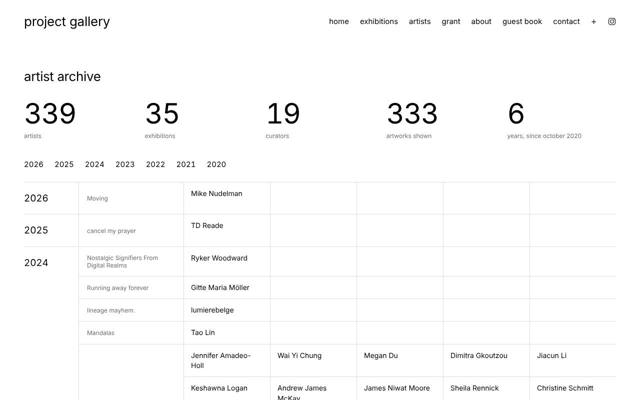
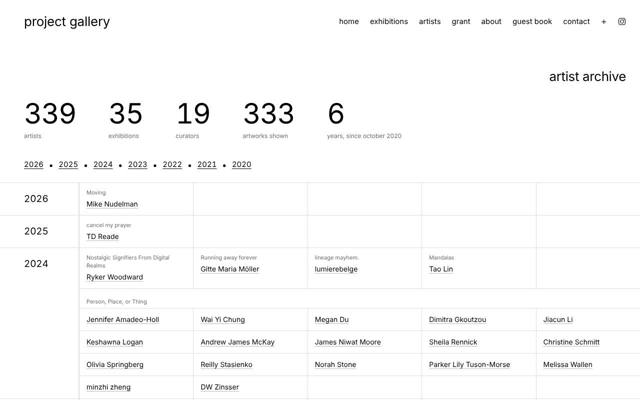
Archive grids run edge to edge; headings to the right; artist archive with show titles above names, underlined links that stay blue once visited, year links with dots, closer counters, progress line and the explorer award
Claude-Session: https://claude.ai/code/session_01JDvyBS7JT6BmRY19jA3qLE

diff --git a/index.html b/index.html
@@ -65,6 +65,7 @@ main { padding: 0 var(--gutter) 64px; flex: 1; }
 
 /* exhibitions / artists / about / contact */
 .page-title { font-size: clamp(20px, 2.2vw, 26px); letter-spacing: -0.015em; font-weight: 400; margin: 48px 0 28px; }
+.align-right { text-align: right; }
 .current { margin-top: 48px; }
 h2 { font-size: 12px; font-weight: 400; letter-spacing: 0.02em; margin: 0 0 12px; padding-bottom: 6px; border-bottom: 1px solid var(--ink); }
 .section { margin-top: 64px; max-width: 640px; }
@@ -265,9 +266,9 @@ body.arriving #view-show { animation: arrive 1.4s cubic-bezier(.16, .8, .3, 1) b
 @media (prefers-reduced-motion: reduce) { .ticker { overflow-x: auto; } .ticker-track { animation: none; } }
 .archive-wrap { margin-top: clamp(72px, 10vh, 120px); }
 /* the heading hangs from a full-width line */
-.archive-head { font-size: clamp(22px, 2.4vw, 28px); font-weight: 400; letter-spacing: -0.015em; margin: 0 0 20px; padding: 0; border: 0; }
+.archive-head { font-size: clamp(22px, 2.4vw, 28px); font-weight: 400; letter-spacing: -0.015em; margin: 0 0 20px; padding: 0; border: 0; text-align: right; }
 .archive-head span { position: static; }
-.arch-year { display: grid; grid-template-columns: 110px 1fr; gap: 0; padding: 0; border-top: 1px solid #dedede; }
+.arch-year { display: grid; grid-template-columns: 110px 1fr; gap: 0; padding: 0 0 0 var(--gutter); margin: 0 calc(var(--gutter) * -1); border-top: 1px solid #dedede; }
 .arch-year:last-child { border-bottom: 1px solid #dedede; }
 #ex-archive .arch-year > span, .aa-year > span { padding: 18px 0; border-right: 1px solid #dedede; }
 .arch-year > span { font-size: 19px; font-variant-numeric: tabular-nums; letter-spacing: -0.01em; scroll-margin-top: 24px; }
@@ -283,23 +284,24 @@ body.arriving #view-show { animation: arrive 1.4s cubic-bezier(.16, .8, .3, 1) b
 .arch-item:hover img { box-shadow: 0 0 12px 1px rgba(0, 0, 0, 0.3); }
 .arch-item:hover .a-title { color: var(--accent); }
 /* artist archive */
-.counters { display: grid; grid-template-columns: repeat(5, minmax(0, 1fr)); gap: 24px; margin: 8px 0 40px; }
+.counters { display: flex; flex-wrap: wrap; gap: 28px clamp(36px, 5vw, 72px); margin: 8px 0 40px; }
 .counter b { display: block; font-weight: 400; font-size: clamp(34px, 4.4vw, 56px); letter-spacing: -0.03em; line-height: 1; font-variant-numeric: tabular-nums; }
 .counter span { display: block; margin-top: 8px; font-size: 12px; color: var(--muted); }
-.year-jump { display: flex; flex-wrap: wrap; gap: 8px 22px; margin: 0 0 28px; }
-.year-jump a { font-size: 15px; font-variant-numeric: tabular-nums; transition: color .2s; }
+.year-jump { display: flex; flex-wrap: wrap; align-items: baseline; gap: 8px 12px; margin: 0 0 28px; }
+.year-jump .dot { font-size: 7px; color: var(--ink); }
+.year-jump a { font-size: 15px; font-variant-numeric: tabular-nums; text-decoration: underline; text-underline-offset: 3px; text-decoration-thickness: 1px; transition: color .2s; }
 .year-jump a:hover { color: var(--accent); }
 .aa-wrap { margin-top: 0; }
-.aa-shows { display: grid; }
-.aa-show { display: grid; grid-template-columns: 210px 1fr; border-bottom: 1px solid #dedede; }
-.aa-show:last-child { border-bottom: 0; }
-.aa-title { background: none; border: 0; border-right: 1px solid #dedede; padding: 14px 16px; font-family: var(--font); font-size: 12px; color: var(--muted); cursor: pointer; text-align: left; align-self: stretch; transition: color .2s; overflow-wrap: anywhere; }
-.aa-title:hover { color: var(--accent); }
-.aa-names { display: grid; grid-template-columns: repeat(5, minmax(0, 1fr)); gap: 1px; background: #dedede; font-size: 14px; }
-.aa-names a, .aa-names span { background: var(--bg); padding: 12px 14px; overflow-wrap: anywhere; }
-.aa-names a { transition: color .2s; }
-.aa-names a:hover { color: var(--accent); }
-.aa-names span.nolink { color: #8a8a8a; }
+.aa-grid { display: grid; grid-template-columns: repeat(5, minmax(0, 1fr)); gap: 1px; background: #dedede; border-left: 1px solid #dedede; }
+.aa-grid > * { background: var(--bg); padding: 12px 14px; min-width: 0; overflow-wrap: anywhere; }
+.aa-cell small, .aa-gtitle { display: block; font-size: 11px; color: var(--muted); margin-bottom: 4px; }
+.aa-gtitle { grid-column: 1 / -1; background: none; border: 0; text-align: left; font-family: var(--font); cursor: pointer; padding: 18px 14px 6px; margin: 0; background: var(--bg); transition: color .2s; }
+.aa-gtitle:hover { color: var(--accent); }
+.aa-cell a, .aa-cell .nolink { font-size: 14px; }
+.aa-cell a { text-decoration: underline; text-underline-offset: 3px; text-decoration-thickness: 1px; text-decoration-color: #b8b8b8; transition: color .2s; }
+.aa-cell a:hover, .aa-cell a:visited, .aa-cell a.seen { color: var(--accent); text-decoration-color: currentColor; }
+.aa-cell .nolink { color: #8a8a8a; }
+.aa-progress { font-size: 11px; color: var(--muted); margin: 0 0 18px; }
 
 /* show cards: spotlight image takes most of the card */
 .card.wide { grid-template-columns: 1.25fr 1fr; width: min(1240px, 100%); column-gap: calc(var(--pad) * 1.6); }
@@ -328,6 +330,23 @@ body.arriving #view-show { animation: arrive 1.4s cubic-bezier(.16, .8, .3, 1) b
 .nl-skip { background: none; border: 0; padding: 0; font: inherit; font-size: 12px; color: var(--muted); cursor: pointer; }
 .nl-skip:hover { color: var(--accent); }
 
+/* awards */
+.award { position: fixed; inset: 0; z-index: 58; display: none; place-items: center; background: rgba(255, 255, 255, 0.86); backdrop-filter: blur(5px); -webkit-backdrop-filter: blur(5px); padding: var(--gutter); }
+.award.open { display: grid; animation: arrive .9s cubic-bezier(.16, .8, .3, 1) both; }
+.award-box { background: var(--bg); width: min(380px, 100%); padding: 30px; box-shadow: 0 0 60px rgba(0, 0, 0, 0.14); text-align: center; display: grid; gap: 10px; font-size: 13px; }
+.award-box p { margin: 0; }
+.award-label { font-size: 11px; color: var(--accent); }
+.award-art svg, .award-shelf svg { width: 96px; height: 96px; image-rendering: pixelated; margin: 6px auto; display: block; }
+.award-name { font-size: 18px; }
+.award-text { text-align: justify; text-align-last: center; }
+.award-fine { font-size: 11px; color: var(--muted); }
+.award-row { display: flex; justify-content: space-between; align-items: center; margin-top: 8px; }
+.award-link { font-size: 12px; text-decoration: underline; text-underline-offset: 3px; }
+.award-link:hover { color: var(--accent); }
+.award-shelf { display: flex; flex-wrap: wrap; gap: 24px; margin: 0 0 36px; }
+.award-shelf figure { margin: 0; text-align: center; font-size: 11px; color: var(--muted); }
+.award-shelf svg { width: 56px; height: 56px; margin: 0 auto 6px; }
+
 /* footer */
 footer { padding: 56px var(--gutter) 28px; text-align: center; display: flex; flex-direction: column; gap: 4px; font-size: 11px; color: var(--muted); }
 footer a:hover { color: var(--accent); }
@@ -354,8 +373,7 @@ footer a:hover { color: var(--accent); }
   .arch-year { grid-template-columns: 1fr; gap: 12px; }
   .arch-items, .aa-names { grid-template-columns: repeat(2, minmax(0, 1fr)); }
   .counters { grid-template-columns: repeat(2, minmax(0, 1fr)); }
-  .aa-show { grid-template-columns: 1fr; }
-  .aa-title { border-right: 0; }
+  .aa-grid { grid-template-columns: repeat(2, minmax(0, 1fr)); }
   .pair { grid-template-columns: 1fr; padding: 0; gap: 64px; }
   .work.right .work-image, .work.right .work-caption { grid-column: auto; grid-row: auto; }
   .works { gap: 96px; }
@@ -435,9 +453,10 @@ footer a:hover { color: var(--accent); }
 
   <!-- ARTISTS -->
   <section class="view" id="view-artists">
-    <h1 class="page-title">artist archive</h1>
+    <h1 class="page-title align-right">artist archive</h1>
     <div class="counters" id="aa-counters"></div>
     <nav class="year-jump" id="aa-years" aria-label="jump to a year"></nav>
+    <p class="aa-progress" id="aa-progress"></p>
     <div class="aa-wrap">
       <div id="artist-archive"></div>
     </div>
@@ -489,6 +508,7 @@ footer a:hover { color: var(--accent); }
   <!-- MY COLLECTION (saved in each visitor's own browser) -->
   <section class="view" id="view-collection">
     <h1 class="page-title">my collection</h1>
+    <div class="award-shelf" id="award-shelf"></div>
     <div class="tags" id="collection-tags"></div>
     <p class="construction collection-note">kept in this browser, on this device</p>
     <div class="collection" id="collection"></div>
@@ -539,6 +559,17 @@ footer a:hover { color: var(--accent); }
     <div class="nl-row"><button type="button" class="nl-skip" id="nl-skip">no thanks</button><button class="enter" type="submit">sign up</button></div>
     <p class="fine" id="nl-msg" role="status"></p>
   </form>
+</div>
+
+<div class="award" id="award" role="dialog" aria-modal="true" aria-label="you earned an award">
+  <div class="award-box">
+    <p class="award-label">you earned an award</p>
+    <div class="award-art"></div>
+    <p class="award-name"></p>
+    <p class="award-text"></p>
+    <p class="award-fine">it's kept in my collection, in this browser.</p>
+    <div class="award-row"><a class="award-link" href="#collection">see my collection</a><button class="enter" id="award-close">thank you</button></div>
+  </div>
 </div>
 
 <div class="nav-preview" id="nav-preview" aria-hidden="true"><img alt=""></div>
@@ -664,6 +695,54 @@ function countUp(el, to, ms) {
   requestAnimationFrame(step);
 }
 let countersDone = false;
+/* exploring: remember which artist pages a visitor has opened (in their browser only) */
+const SEEN = "pg-artists-seen", AWARDS = "pg-awards";
+function getSeen() { try { return new Set(JSON.parse(localStorage.getItem(SEEN)) || []); } catch (e) { return new Set(); } }
+function allHandles() { return new Set(ARTISTS.filter(a => a.instagram).map(a => a.instagram.toLowerCase())); }
+function markSeen(h) {
+  const s = getSeen(); s.add(h);
+  try { localStorage.setItem(SEEN, JSON.stringify([...s])); } catch (e) {}
+  updateProgress();
+  const all = allHandles();
+  if ([...all].every(x => s.has(x))) giveAward("explorer");
+}
+function updateProgress() {
+  const all = allHandles(), s = getSeen(), n = [...all].filter(x => s.has(x)).length;
+  const el = document.getElementById("aa-progress");
+  if (el) el.textContent = n ? `you've visited ${n} of ${all.size} artists` : "";
+}
+/* awards: small pictures you earn by exploring the site, kept with your collection */
+const AWARD_LIST = {
+  explorer: { name: "the explorer", text: "you visited every artist in the archive. thank you for looking so closely.", art: pixelArt([
+    "....bbbb....",
+    "..bbbbbbbb..",
+    ".bbwwbbwwbb.",
+    ".bbwkbbwkbb.",
+    "bbbbbbbbbbbb",
+    "bbbbbbbbbbbb",
+    "bbbkkkkkkbbb",
+    "bbbbkkkkbbbb",
+    ".bbbbbbbbbb.",
+    ".b.bb..bb.b.",
+    "b..b....b..b",
+    "...b....b..."]) }
+};
+function pixelArt(rows) {
+  const col = { b: "#0000ee", w: "#ffffff", k: "#000000" };
+  const cells = rows.flatMap((r, y) => [...r].map((c, x) => col[c] ? `<rect x="${x}" y="${y}" width="1" height="1" fill="${col[c]}"/>` : "")).join("");
+  return `<svg viewBox="0 0 ${rows[0].length} ${rows.length}" shape-rendering="crispEdges" aria-hidden="true">${cells}</svg>`;
+}
+function getAwards() { try { return JSON.parse(localStorage.getItem(AWARDS)) || {}; } catch (e) { return {}; } }
+function giveAward(id) {
+  const got = getAwards(); if (got[id]) return;
+  got[id] = Date.now();
+  try { localStorage.setItem(AWARDS, JSON.stringify(got)); } catch (e) {}
+  const a = AWARD_LIST[id], box = document.getElementById("award");
+  box.querySelector(".award-art").innerHTML = a.art;
+  box.querySelector(".award-name").textContent = a.name;
+  box.querySelector(".award-text").textContent = a.text;
+  box.classList.add("open");
+}
 function renderArtists() {
   const el = document.getElementById("artist-archive");
   if (!ARTISTS.length) { el.innerHTML = UC; return; }
@@ -683,21 +762,34 @@ function renderArtists() {
   if (!countersDone) { box.querySelectorAll("b").forEach((b, i) => countUp(b, C[i][0], 1400)); countersDone = true; }
 
   // year links
-  document.getElementById("aa-years").innerHTML = [...byYear.keys()].map(y => `<a href="#aa-${y}" data-year="${y}">${y}</a>`).join("");
+  const yrs = [...byYear.keys()];
+  document.getElementById("aa-years").innerHTML = yrs.map((y, i) => `<a href="#aa-${y}" data-year="${y}">${y}</a>${i < yrs.length - 1 ? '<span class="dot" aria-hidden="true">●</span>' : ""}`).join("");
   document.querySelectorAll("#aa-years a").forEach(a => a.addEventListener("click", e => {
     e.preventDefault();
     document.getElementById("aa-" + a.dataset.year).scrollIntoView({ behavior: reduceMotion ? "auto" : "smooth", block: "start" });
   }));
 
-  const name = p => p.instagram
-    ? `<a href="https://www.instagram.com/${encodeURIComponent(p.instagram)}/" target="_blank" rel="noopener">${esc(p.artist)}</a>`
-    : `<span class="nolink">${esc(p.artist)}</span>`;
-  el.innerHTML = [...byYear].map(([y, keys]) => `<div class="arch-year aa-year"><span id="aa-${y}">${esc(y)}</span><div class="aa-shows">${keys.map(k => {
-    const list = ARTISTS.filter(a => a.show === k);
-    const fill = '<span></span>'.repeat((5 - list.length % 5) % 5);
-    return `<div class="aa-show"><button class="aa-title" data-card="${esc(k)}">${esc(shortTitle(k))}</button><div class="aa-names">${list.map(name).join("")}${fill}</div></div>`;
-  }).join("")}</div></div>`).join("");
-  el.querySelectorAll(".aa-title").forEach(b => b.addEventListener("click", () => openShowCard(b.dataset.card)));
+  const seen = getSeen();
+  const cell = (p, title) => `<div class="aa-cell">${title ? `<small>${esc(title)}</small>` : ""}${p.instagram
+    ? `<a href="https://www.instagram.com/${encodeURIComponent(p.instagram)}/" target="_blank" rel="noopener" data-ig="${esc(p.instagram.toLowerCase())}"${seen.has(p.instagram.toLowerCase()) ? ' class="seen"' : ""}>${esc(p.artist)}</a>`
+    : `<span class="nolink">${esc(p.artist)}</span>`}</div>`;
+  const pad = n => '<div aria-hidden="true"></div>'.repeat((5 - n % 5) % 5);
+  el.innerHTML = [...byYear].map(([y, keys]) => {
+    // solo and two-person shows: show title in small type above each name
+    const solos = keys.filter(k => SHOW_CARDS[k].kind !== "group exhibition");
+    const soloCells = solos.flatMap(k => ARTISTS.filter(a => a.show === k).map(p => cell(p, shortTitle(k))));
+    let html = soloCells.join("") + pad(soloCells.length);
+    // group shows: the title once, then everyone in it
+    keys.filter(k => SHOW_CARDS[k].kind === "group exhibition").forEach(k => {
+      const list = ARTISTS.filter(a => a.show === k);
+      html += `<button class="aa-gtitle" data-card="${esc(k)}">${esc(SHOW_CARDS[k].title)}</button>` + list.map(p => cell(p, "")).join("") + pad(list.length);
+    });
+    return `<div class="arch-year aa-year"><span id="aa-${y}">${esc(y)}</span><div class="aa-grid">${html}</div></div>`;
+  }).join("");
+  el.querySelectorAll(".aa-gtitle").forEach(b => b.addEventListener("click", () => openShowCard(b.dataset.card)));
+  el.querySelectorAll("a[data-ig]").forEach(a => a.addEventListener("click", () => { a.classList.add("seen"); markSeen(a.dataset.ig); }));
+  updateProgress();
+
 }
 
 
@@ -847,7 +939,13 @@ function pickColours(src) {
 }
 
 let collectionFilter = "all";
+function renderAwardShelf() {
+  const got = getAwards();
+  document.getElementById("award-shelf").innerHTML = Object.keys(got).filter(id => AWARD_LIST[id]).map(id =>
+    `<figure title="${esc(AWARD_LIST[id].text)}">${AWARD_LIST[id].art}<figcaption>${esc(AWARD_LIST[id].name)}</figcaption></figure>`).join("");
+}
 function renderCollection() {
+  renderAwardShelf();
   const box = document.getElementById("collection");
   const tagsEl = document.getElementById("collection-tags");
   const all = getSaved().map(workInfo);
@@ -1243,6 +1341,8 @@ const nl = document.getElementById("nl"), nlForm = document.getElementById("nl-f
 function openNewsletter() { document.getElementById("nl-msg").textContent = ""; nlForm.reset(); nl.classList.add("open"); document.getElementById("nl-email").focus(); }
 function closeNewsletter() { nl.classList.remove("open"); }
 document.getElementById("nl-skip").addEventListener("click", closeNewsletter);
+document.getElementById("award-close").addEventListener("click", () => document.getElementById("award").classList.remove("open"));
+document.querySelector(".award-link").addEventListener("click", () => document.getElementById("award").classList.remove("open"));
 nl.addEventListener("click", e => { if (e.target === nl) closeNewsletter(); });
 document.addEventListener("keydown", e => { if (e.key === "Escape" && nl.classList.contains("open")) closeNewsletter(); });
 nlForm.addEventListener("submit", e => {
@@ -1301,6 +1401,7 @@ function show() {
   const h = location.hash.slice(1);
   let name = VIEWS.includes(h) ? h : "home";
   if (SHOWS[h]) { name = "show"; renderShow(h); }
+  document.getElementById("award").classList.remove("open");
   if (name === "collection") renderCollection();
   if (name === "guestbook") renderGuestbook();
   if (name === "home" && lastView !== "home") typeLogo();
